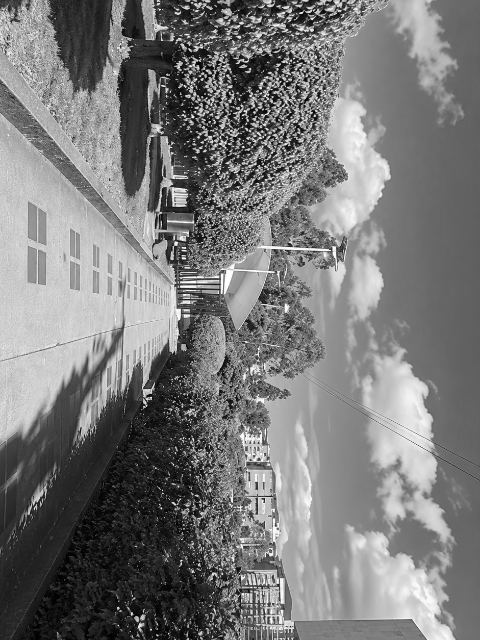
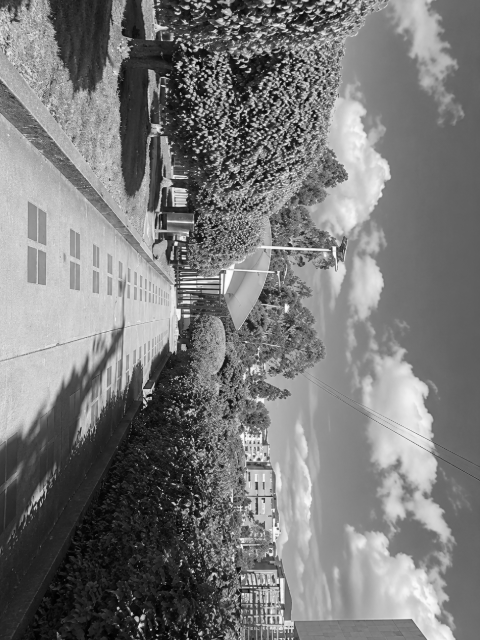
Actualizar «VOLVER A EMPEZAR» desde Zence Inverse Reality

diff --git a/src/inre-marcadores.ts b/src/inre-marcadores.ts
@@ -2,11 +2,9 @@ import * as ecs from '@8thwall/ecs'
 import marcador0 from '../image-targets/20260909_151319_1_jpg.json'
 import marcador1 from '../image-targets/2f.json'
 import marcador2 from '../image-targets/3f.json'
-import marcador3 from '../image-targets/activador_6.json'
-import marcador4 from '../image-targets/activador_6_2.json'
-import marcador5 from '../image-targets/activador_6_3.json'
-import marcador6 from '../image-targets/4_y_5.json'
-import marcador7 from '../image-targets/activador_5.json'
+import marcador3 from '../image-targets/4_y_5.json'
+import marcador4 from '../image-targets/Recurso_4-100.json'
+import marcador5 from '../image-targets/activador_6.json'
 
 /**
  * Carga los marcadores de imagen en el motor, y se queda vigilando que sigan puestos.
@@ -54,7 +52,7 @@ interface XrEngine {
 
 const engine = (): XrEngine | undefined => (window as unknown as {XR8?: XrEngine}).XR8
 
-const marcadores: unknown[] = [marcador0, marcador1, marcador2, marcador3, marcador4, marcador5, marcador6, marcador7]
+const marcadores: unknown[] = [marcador0, marcador1, marcador2, marcador3, marcador4, marcador5]
 
 /**
  * Cuántos marcadores se cargan en el primer paso.

diff --git a/src/inre-espera.ts b/src/inre-espera.ts
@@ -6,7 +6,7 @@
  * lienzo. Si algo falla dentro, se retira sola para no dejar la pantalla tapada.
  */
 
-const MARCADORES = ["20260909_151319_1_jpg","2f","3f","activador_6","activador_6_2","activador_6_3","4_y_5","activador_5"]
+const MARCADORES = ["20260909_151319_1_jpg","2f","3f","4_y_5","Recurso_4-100","activador_6"]
 
 /**
  * Cuenta las descargas en curso de archivos del proyecto (assets/ o blobs) para
